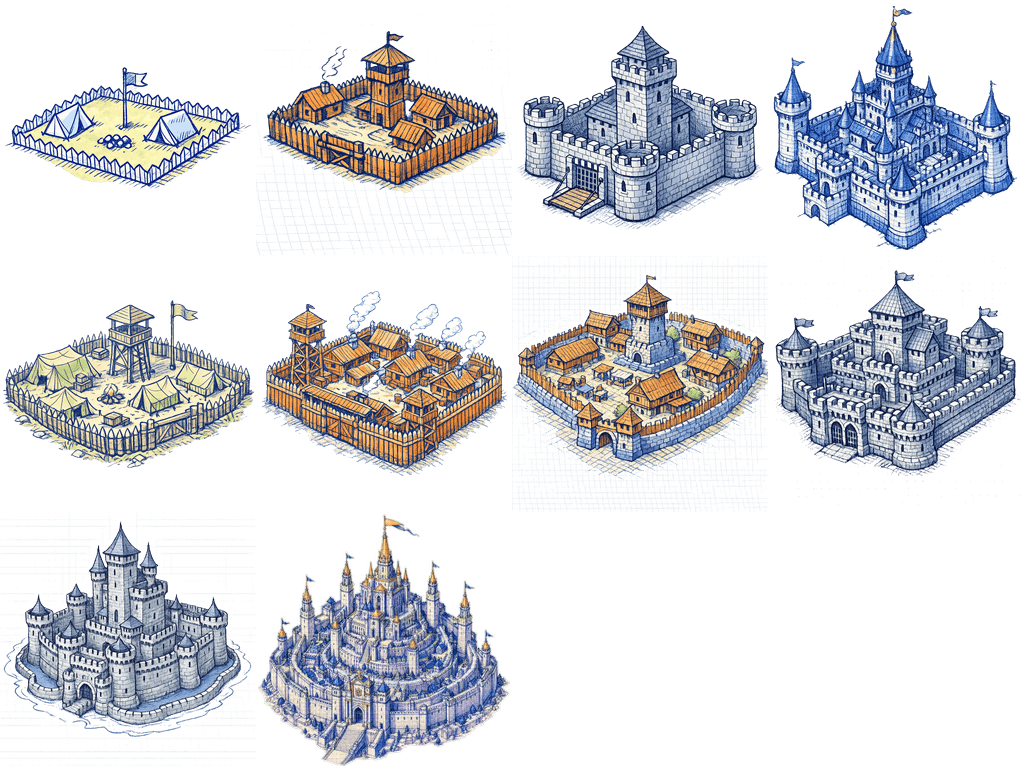
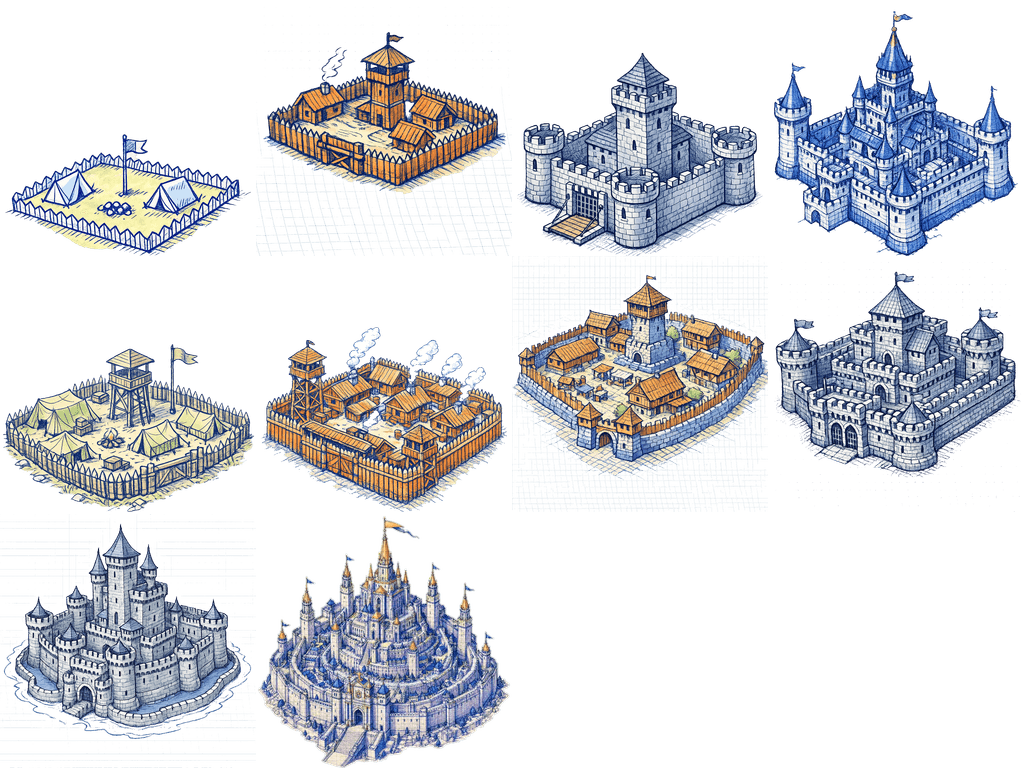
fix(slg): city sprites fill their plot — bottom-align atlas, 55% forward, linear footprint scaling
Three compounding causes made cities float back off their ground plot, leaving a
large empty apron in front (worst on the 9×9 world-center):

1. Atlas framing: pack_city_atlas.js centred each building in its 256² cell
   (fit:'contain'), leaving a variable empty bottom margin (measured foot fraction
   0.74–1.0) that pushed bottom-anchored sprites back by differing amounts. Now
   bottom-aligns content (fit:'inside' + bottom-centre composite, no bottom pad) so
   every frame's foot sits on the cell's bottom edge (regenerated: foot fraction 1.000
   for all 10 frames). Removes the low-tier float entirely.

2. Landing point: groundFwd coefficient 0.40 → 0.55 (center→front-vertex) so the
   3×3 player base plants on its plot with only a small forecourt apron, still back
   far enough that the wide base never covers front resource tiles.

3. Node-city scaling: sqrt(footprint/3)*3.2 under-filled big plots badly — a 9×9
   world-center reached only ~5.5 tiles on its 9-tile plot. Now linear
   (footprint/3)*3.2, so every city fills its own footprint like a player base fills
   3×3 (footprint 3 unchanged at 3.2 → zero regression for player bases).

All placements verified in a Canvas2D A/B harness against the real regenerated atlas
(front resource tiles stay clear; only back tiles occluded — correct iso depth).
Both renderers kept in lockstep: client WorldMapRenderer/city.ts + tools/map-editor.

Note: pack_city_atlas.js needs a working `sharp`; the project's sharp 0.32.6 has no
[…]

Changed region(s): [[0.0, 0.0, 1.0, 0.625], [0.0, 0.375, 0.5, 1.0]]

diff --git a/client/src/scenes/worldmap/WorldMapRenderer/city.ts b/client/src/scenes/worldmap/WorldMapRenderer/city.ts
@@ -75,17 +75,17 @@ export function CityMixin<TBase extends WorldMapRendererBaseCtor>(Base: TBase): 
             this.ctx.citySprites.set(cacheKey, cityC);
           }
 
-          // Position bottom-center near the plot CENTER, not shoved to the front vertex. The atlas
-          // art's base is ~full sprite-width (BASE_SPRITE_TILES ≈ 3.2 tiles), so anchoring it at the
-          // diamond's front vertex made the wide base overhang the plot's front-left/right edges and
-          // cover adjacent RESOURCE tiles (a tile then showed both a resource icon and half a castle).
-          // Sitting the base near the diamond's center line — its widest span — keeps it inside the
-          // 3×3 footprint; the tall upper body rises up-and-back and only occludes BACK tiles, which
-          // is correct isometric depth. GROUND_FWD nudges the base 40% of the way toward the front
-          // vertex so it reads as planted (not floating at dead-center) without spilling forward —
-          // value verified against the widest-base atlas frames (lv4, l7). See design/tools/map-editor.
+          // Position bottom-center between the plot CENTER and its front vertex. The atlas art is now
+          // bottom-aligned (pack_city_atlas.js sits every building's foot on the cell's bottom edge),
+          // so the bottom-center anchor lands the foot on the plot uniformly for every frame — no more
+          // per-frame float from centred art's variable bottom margin. GROUND_FWD nudges the foot 55%
+          // of the way toward the front vertex so the castle reads as planted on the plot with only a
+          // small forecourt apron, while the foot still stays back far enough that the wide base never
+          // covers the front RESOURCE tiles (the tall body rises up-and-back, occluding only BACK tiles
+          // — correct isometric depth). 0.55 verified in the Canvas2D A/B harness against the widest
+          // frames (lv4 grand citadel, lv2 wooden fort). See design/tools/map-editor.
           const s = tileToScreen(tx, ty, tp);
-          const groundFwd = (BASE_FOOTPRINT * tp * ISO_RATIO) / 2 * 0.4; // 40% of center→front-vertex
+          const groundFwd = (BASE_FOOTPRINT * tp * ISO_RATIO) / 2 * 0.55; // 55% of center→front-vertex
           cityC.x = this.ctx.panX + s.x;
           cityC.y = this.ctx.panY + s.y + groundFwd;
           cityC.zIndex = tx + ty;
@@ -147,16 +147,19 @@ export function CityMixin<TBase extends WorldMapRendererBaseCtor>(Base: TBase): 
           this.ctx.citySprites.set(key, cityC);
         }
         const s = tileToScreen(node.x, node.y, tp);
-        const groundFwd = (node.footprint * tp * ISO_RATIO) / 2 * 0.4; // 40% center→front-vertex (see base branch note)
+        const groundFwd = (node.footprint * tp * ISO_RATIO) / 2 * 0.55; // 55% center→front-vertex (see base branch note)
         cityC.x = this.ctx.panX + s.x;
         cityC.y = this.ctx.panY + s.y + groundFwd;
         cityC.zIndex = node.x + node.y;
         const sprite = cityC.getChildByName('img') as PIXI.Sprite;
         if (sprite.texture !== tex) sprite.texture = tex;
-        // Scale the BASE_SPRITE_TILES art up sub-linearly with footprint (√), so higher-tier cities still
-        // read as bigger but the 9×9 world-center mega-city doesn't balloon to ~9.6 tiles and swallow the map
-        // (a base at footprint 3 is unchanged: √1 = 1).
-        const spriteTiles = Math.sqrt(node.footprint / BASE_FOOTPRINT) * BASE_SPRITE_TILES;
+        // Scale the sprite LINEARLY with footprint so every city fills its own plot the same way a player
+        // base fills its 3×3 (footprint 3 → 3.2 tiles, unchanged). Sub-linear √ scaling under-filled the big
+        // plots badly — a 9×9 world-center reached only √3×3.2 ≈ 5.5 tiles, leaving most of its 9×9 ground
+        // exposed as a big empty apron. The larger sprite still sits within its own (larger) footprint, so
+        // the earlier "don't let the mega-city balloon and swallow the map" worry doesn't apply — the plot
+        // really is that big.
+        const spriteTiles = (node.footprint / BASE_FOOTPRINT) * BASE_SPRITE_TILES;
         sprite.width = spriteTiles * tp;
         sprite.height = spriteTiles * tp;
       }

diff --git a/tools/map-editor/src/index.ts b/tools/map-editor/src/index.ts
@@ -320,9 +320,10 @@ function loadCitiesAndRedraw(worldId: string): void {
  * Rebuilds the per-level city building sprites (city_atlas art) from cityStore.nodes — the same visuals the
  * game renders (DESIGN.md §6.3 art-parity). Cheap (~70 nodes) and deliberately NOT called on every
  * terrain-brush tick: cities don't move while painting, so this only runs on seed/zoom/city-position changes.
- * Sprite width = √(footprint/BASE_FOOTPRINT) × BASE_SPRITE_TILES tiles — bigger-footprint cities still draw
- * larger, but sub-linearly so the 9×9 world-center mega-city doesn't balloon to ~9.6 tiles and swallow the map
- * (a base at footprint 3 is unchanged: √1 = 1). Mirrors the game client's WorldMapRenderer city layer.
+ * Sprite width = (footprint/BASE_FOOTPRINT) × BASE_SPRITE_TILES tiles — LINEAR in footprint so every city
+ * fills its own plot the same way a player base fills its 3×3 (footprint 3 → 3.2 tiles, unchanged). Mirrors
+ * the game client's WorldMapRenderer city layer. (Was √-scaled, which under-filled big plots — a 9×9 world
+ * center reached only ~5.5 tiles and left most of its ground exposed.)
  */
 function refreshCitySprites(): void {
   citySpriteLayer.removeChildren().forEach((c) => c.destroy({ children: true }));
@@ -331,19 +332,19 @@ function refreshCitySprites(): void {
     const tex = getCityTextureForLevel(node.level);
     if (!tex) continue;
     const sp = new PIXI.Sprite(tex);
-    // Bottom-center anchor near the plot CENTER (matches the game client's WorldMapRenderer city
-    // layer): the atlas art's base is ~full sprite-width, so anchoring it at the diamond's front
-    // vertex made the wide base overhang the plot's front edges and cover adjacent resource tiles.
-    // Sitting the base near the diamond's center line keeps it within the footprint; the tall body
-    // rises up-and-back, only occluding back tiles (correct isometric depth). groundFwd nudges it
-    // 40% toward the front vertex so it reads as planted without spilling forward.
+    // Bottom-center anchor between the plot CENTER and its front vertex (matches the game client's
+    // WorldMapRenderer city layer): the atlas art is now bottom-aligned (pack_city_atlas.js sits every
+    // building's foot on the cell's bottom edge), so the anchor lands the foot on the plot uniformly.
+    // groundFwd nudges it 55% toward the front vertex so it reads as planted with only a small
+    // forecourt apron, while staying back far enough that the wide base never covers front resource
+    // tiles (the tall body rises up-and-back, occluding only back tiles — correct isometric depth).
     sp.anchor.set(0.5, 1);
     const s = tileToScreen(node.x, node.y, tp);
-    const groundFwd = (node.footprint * tp * ISO_RATIO) / 2 * 0.4;
+    const groundFwd = (node.footprint * tp * ISO_RATIO) / 2 * 0.55;
     sp.x = s.x;
     sp.y = s.y + groundFwd;
     sp.zIndex = node.x + node.y;
-    const spriteTiles = Math.sqrt(node.footprint / BASE_FOOTPRINT) * BASE_SPRITE_TILES;
+    const spriteTiles = (node.footprint / BASE_FOOTPRINT) * BASE_SPRITE_TILES;
     sp.width = spriteTiles * tp;
     sp.height = spriteTiles * tp;
     citySpriteLayer.addChild(sp);

diff --git a/art/ui/slg-building/pack_city_atlas.js b/art/ui/slg-building/pack_city_atlas.js
@@ -142,11 +142,24 @@ async function makeCell(srcPath) {
   const left = Math.max(0, box.minX - pad);
   const top = Math.max(0, box.minY - pad);
   const cw = Math.min(width, box.maxX + pad + 1) - left;
-  const ch = Math.min(height, box.maxY + pad + 1) - top;
+  // No bottom pad: the building's foot must be flush with the crop's bottom edge so that after the
+  // bottom-align composite below it lands on the cell's bottom edge.
+  const ch = Math.min(height, box.maxY + 1) - top;
 
-  return sharp(Buffer.from(data), { raw: { width, height, channels: 4 } })
+  // Fit the cropped building into the cell preserving aspect (fit: 'inside' touches one axis and never
+  // upscales past the cell), then composite it BOTTOM-CENTER onto a transparent CELL² canvas. Bottom-
+  // aligning makes every frame's building foot sit at the cell's bottom edge (base fraction ≈ 1.0 for
+  // all art), so the renderer's bottom-center anchor lands the foot on the plot uniformly. The old
+  // `fit: 'contain'` centred the art, leaving a variable empty margin below short/wide buildings
+  // (measured base fraction ranged 0.74–1.0) that made those cities float back off their plot.
+  const fitted = await sharp(Buffer.from(data), { raw: { width, height, channels: 4 } })
     .extract({ left, top, width: cw, height: ch })
-    .resize(CELL, CELL, { fit: 'contain', background: { r: 0, g: 0, b: 0, alpha: 0 } })
+    .resize(CELL, CELL, { fit: 'inside', background: { r: 0, g: 0, b: 0, alpha: 0 } })
+    .png()
+    .toBuffer();
+  const fm = await sharp(fitted).metadata();
+  return sharp({ create: { width: CELL, height: CELL, channels: 4, background: { r: 0, g: 0, b: 0, alpha: 0 } } })
+    .composite([{ input: fitted, left: Math.round((CELL - (fm.width ?? CELL)) / 2), top: CELL - (fm.height ?? CELL) }])
     .png()
     .toBuffer();
 }

diff --git a/design/tools/map-editor/DESIGN.md b/design/tools/map-editor/DESIGN.md
@@ -59,6 +59,11 @@
 - **城池溢出盖住相邻资源格修正：前顶点 → 近地块中心（2026-07-11）**：上一条把落点推到菱形**前（下）顶点**后，用户反馈城池贴图往**右下/两侧溢出、盖到相邻资源格**上——"一格既画资源图标又画半座城堡"。根因：城池贴图是 3.2×3.2 tile 的**正方形盒子**，而图集城堡的墙基几乎占满帧宽（实测九帧不透明底边 `bottomFrac` 0.72–1.0、水平中心恒 ≈0.50）；把这么宽的底座钉到菱形前顶点，正方形下半部整片落到菱形之外的**前排三格**（正/前左/前右），而那三格是资源格（base 自身 9 格无资源）。等距投影里建筑只应遮住**身后**地形（近大远小），遮前排即错。改法（两端 lockstep）：落点从"前顶点 `frontVertexDy=footprint*tp*ISO_RATIO/2`"改为"**近地块中心 + 40% 前推** `groundFwd=frontVertexDy*0.4`"，让宽底座坐在菱形中线（最宽处）附近、既不悬浮又不前溢；`anchor.set(0.5,1)`、`width=height` 不动。`0.4` 系数用真图集帧（`city_lv4` fB=0.84 与 `city_l7` fB≈1.0 两个极端）在 Canvas2D A/B 谐样里验证：前/侧资源格全清、仅遮后排。改动 `WorldMapRenderer/city.ts`（base + node 两分支）+ `tools/map-editor/src/index.ts`。**遗留**：图集九帧取景不统一（底边 0.72–1.0），单一全局系数只能保证"不前溢"，`city_lv1` 等窄帧会略偏后；根治需美术按统一取景规范（地面接触线固定比例）重导，或打包脚本自动量底边烘锚点进 atlas JSON——见本条 TODO。
   - **验证**：`client`、`tools/map-editor` `tsc --noEmit` + `tools/map-editor` `webpack --mode production` 均过；用真图集帧在 Canvas2D 复刻同一套 `tileToScreen`/锚点/尺寸公式做 A/B 取证（旧前顶点 vs 新近中心），确认新落点下相邻资源格不再被城堡覆盖。
 
+- **图集底边对齐 + 落点前推到 55%（2026-07-11，根治上条 TODO）**：上条 40% 系数只保证"不前溢"，但用户反馈城堡仍偏后、手前地块整片露白（`city_lv4` 大城塞尤为明显）。根因是上条遗留的 TODO：打包脚本 `pack_city_atlas.js` 用 `fit:'contain'` 把每张图**居中**塞进 256² 帧，短/宽的建筑下方留下不等空白（实测底边 fB 0.74–1.0），`anchor(0.5,1)` 贴地时这段空白把建筑往后顶、且各城顶的量不同（低阶城浮得更多）。改法分两层：① **根治取景**——`pack_city_atlas.js` 的落帧从 `fit:'contain'`（双轴居中）改为 `fit:'inside'` + **底边对齐**（bottom-center composite，裁剪时去掉底部 padding），每张图的建筑脚底都落在帧底边（重生成后 fB 全为 1.000、水平中心 cX 恒 0.50），`anchor(0.5,1)` 对所有帧一致贴地，低阶城浮空一次性消除；② **落点**——既然脚底统一到帧底边，`groundFwd` 系数 `0.40→0.55`（保持 `S=BASE_SPRITE_TILES=3.2` 不缩小；实测缩小反而显小、四周露白更多），城堡贴地、手前只剩一小条前庭，仍不盖前排资源格。`0.55` 用 Canvas2D A/B 谐样对 `city_lv4`/`city_lv2`（最宽底两帧）逐档（0.40/0.50/0.55/0.60）取证选定，并对全 10 帧确认落点正常。改动：`art/ui/slg-building/pack_city_atlas.js`（重生成 `client` + `tools/map-editor` 两份 `city_atlas.{png,json}`）+ `WorldMapRenderer/city.ts`（base + node 两分支）+ `tools/map-editor/src/index.ts`。注：本机 `sharp` 因 Node 版本无预编译二进制不可用，重生成图集需在装有可用 `sharp` 的环境跑 `node art/ui/slg-building/pack_city_atlas.js`。
+  - **验证**：`client`（`tsc --noEmit`，仅遗留的 `ota.ts` 缺 `@capgo/capacitor-updater` 报错，与本改动无关）、`tools/map-editor` `tsc --noEmit` + `webpack --mode production` 均过；重生成后逐帧量不透明底边确认 fB=1.000；Canvas2D A/B 谐样确认 0.55 下 10 帧全部贴地、前排资源格不被覆盖。
+
+- **节点城贴图缩放：√ → 线性，修大地块严重欠填（2026-07-11）**：上两条把 3×3 玩家主城调好后，用户反馈**大型 NPC 城/世界中心**（footprint 5/7/9）依然前方露一大片 tan。根因不在落点：`WorldMapRenderer.refreshCityLayer` 的 node 分支把贴图尺寸算成 **`√(footprint/3)×3.2` 格**（sub-linear），footprint=9 的世界中心只有 `√3×3.2≈5.5` 格，却坐在 9×9 地块上——城只盖住约 60% 宽、大半地块露白。这个 √ 当初是怕世界中心"膨胀到 9.6 格吞地图"，但地块本来就是 9×9，城填满**自己的** footprint 并不越界，担心是多余的。改法（两端 lockstep）：缩放改**线性** `(footprint/3)×3.2`——footprint 3 → 3.2 格（玩家主城不变），5→5.33、7→7.47、9→9.6，每座城都像主城填满 3×3 那样填满自己的地块。改动 `WorldMapRenderer/city.ts`（node 分支）+ `tools/map-editor/src/index.ts`（`refreshCitySprites` + 函数头注释）。Canvas2D A/B（F=3/5/7/9，√ vs 线性）取证：线性下各 footprint 城均贴满地块、前排资源格仍不被覆盖（仅遮身后=正确等距遮挡），F=3 两种缩放完全一致（玩家主城零回归）。`client`/`tools/map-editor` `tsc --noEmit` 均过。
+
 ## 1. 问题定义（现状，ADR-032 之前）
 
 | 维度 | 现状 | 代码位置 |